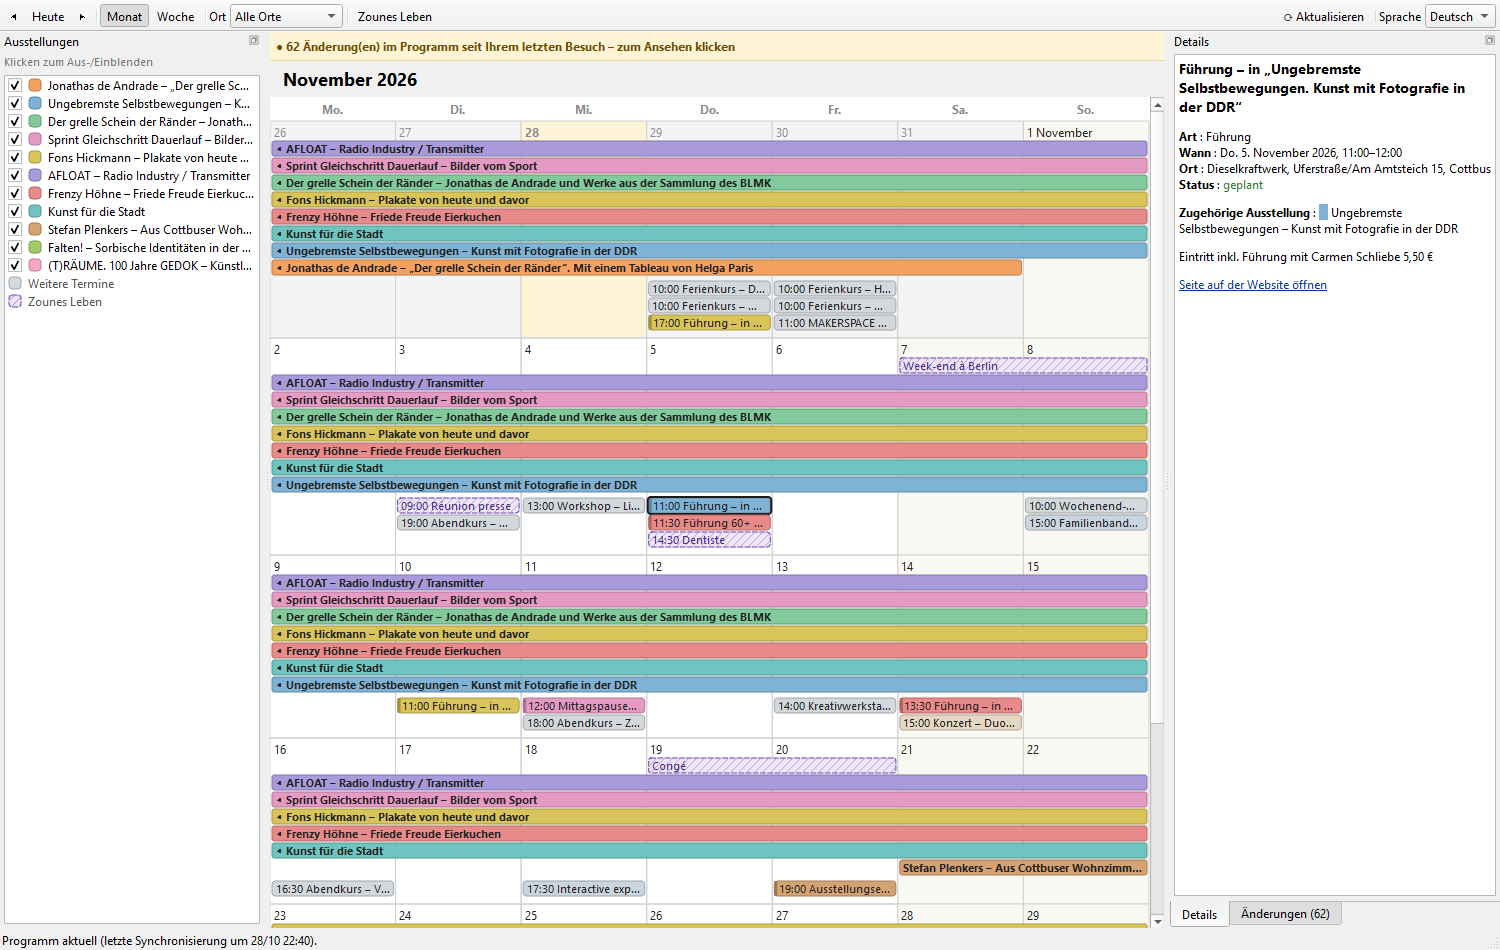
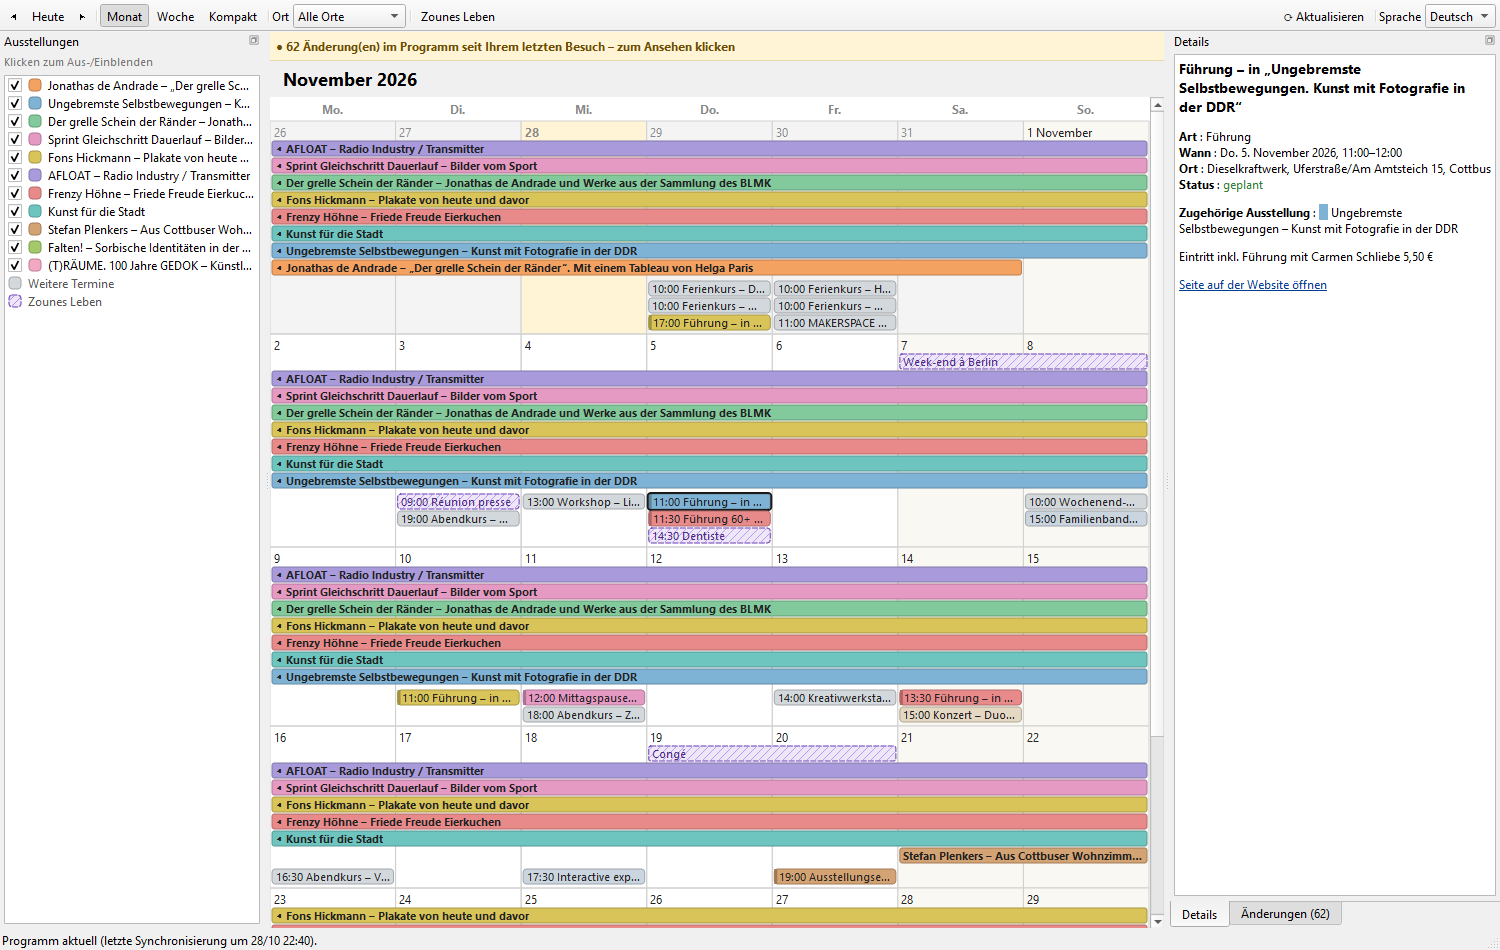
Vue mois : mode compact (bandes d'exposition fines, mois sans défilement)
Bouton « Compact » mémorisé ; expositions en bandes de 4 px avec nom au
survol, vie perso inchangée, pastilles en surplus regroupées en « +n autres ».

Changed region(s): [[0.1533, 0.3358, 0.7667, 0.9768], [0.1227, 0.0, 0.3373, 0.0305]]

diff --git a/musee_zoune/app/vue_mois.py b/musee_zoune/app/vue_mois.py
@@ -19,6 +19,25 @@ H_BANDE = 17
 H_PASTILLE = 17
 MAX_PASTILLES = 7
 H_MIN_SEMAINE = 96
+H_FINE = 5          # mode compact : bande d'exposition de 4 px + 1 px d'espace
+H_MIN_COMPACT = 60
+
+
+def disposition_semaine(n_perso: int, n_expos: int, n_ponctuels_max: int, compact: bool,
+                        h_cible: float | None = None) -> tuple[float, int]:
+    """Hauteur d'une semaine et nombre de lignes de pastilles disponibles.
+
+    Mode normal : la semaine grandit pour tout montrer (jusqu'à MAX_PASTILLES).
+    Mode compact : expositions en bandes fines et hauteur imposée (`h_cible`) pour que
+    tout le mois tienne à l'écran ; ce qui ne rentre pas devient « +n autres ».
+    """
+    h_expo = H_FINE if compact else H_BANDE
+    base = H_NUMERO + n_perso * H_BANDE + n_expos * h_expo + 6
+    if compact and h_cible:
+        hauteur = max(h_cible, H_MIN_COMPACT, base + H_PASTILLE)
+        return hauteur, max(1, int((hauteur - base) // H_PASTILLE))
+    lignes = min(n_ponctuels_max, MAX_PASTILLES + 1)
+    return max(H_MIN_SEMAINE, base + lignes * H_PASTILLE), MAX_PASTILLES + 1
 
 
 def bandes_empilees(elements: list[Element], lundi: date) -> list[cal.Bande]:
@@ -43,10 +62,23 @@ class VueMois(QWidget):
         self.donnees = donnees
         self.annee, self.mois = date.today().year, date.today().month
         self.selection: str | None = None
+        self.compact = False
+        self._h_cible: float | None = None
         self._zones: list[tuple[QRectF, object]] = []
         self.setMouseTracking(True)
         self.setSizePolicy(QSizePolicy.Expanding, QSizePolicy.Fixed)
         self.recalculer()
+
+    def basculer_compact(self, compact: bool) -> None:
+        self.compact = compact
+        self.recalculer()
+
+    def _hauteur_cible(self) -> float | None:
+        """Hauteur d'une semaine pour que le mois remplisse la zone visible."""
+        zone = self.parentWidget()
+        if not self.compact or zone is None or not self.lundis:
+            return None
+        return float(int((zone.height() - H_ENTETE - 4) / len(self.lundis)))
 
     # ------------------------------------------------------------------
 
@@ -59,6 +91,7 @@ class VueMois(QWidget):
         debut, fin = self.lundis[0], self.lundis[-1] + timedelta(days=6)
         self.elements = self.donnees.elements(debut, fin)
         self.semaines = []
+        self._h_cible = self._hauteur_cible()
         for lundi in self.lundis:
             bandes_el = [e for e in self.elements if e.journee and e.dernier_jour >= lundi
                          and e.premier_jour <= lundi + timedelta(days=6)]
@@ -73,10 +106,20 @@ class VueMois(QWidget):
                      and e.premier_jour <= jour <= e.dernier_jour),
                     key=lambda e: (e.debut.time(), e.titre))
                 jours.append(ponctuels)
-            max_p = min(max((len(j) for j in jours), default=0), MAX_PASTILLES + 1)
-            hauteur = max(H_MIN_SEMAINE, H_NUMERO + n_pistes * H_BANDE + 4 + max_p * H_PASTILLE + 6)
+            n_perso = max((b.piste + 1 for b in bandes if par_cle[b.cle].nature == "perso"), default=0)
+            n_expos = n_pistes - n_perso
+            hauteur, lignes = disposition_semaine(
+                n_perso, n_expos, max((len(j) for j in jours), default=0), self.compact, self._h_cible)
+            h_expo = H_FINE if self.compact else H_BANDE
+            for b in bandes:  # position verticale de chaque bande dans la semaine
+                if b.piste < n_perso:
+                    b.y, b.h = b.piste * H_BANDE, H_BANDE - 2
+                else:
+                    b.y = n_perso * H_BANDE + (b.piste - n_perso) * h_expo
+                    b.h = h_expo - (1 if self.compact else 2)
             self.semaines.append({"lundi": lundi, "bandes": bandes, "par_cle": par_cle,
-                                  "n_pistes": n_pistes, "jours": jours, "hauteur": hauteur})
+                                  "h_bandes": n_perso * H_BANDE + n_expos * h_expo,
+                                  "jours": jours, "hauteur": hauteur, "lignes": lignes})
         self.setMinimumHeight(H_ENTETE + sum(s["hauteur"] for s in self.semaines) + 2)
         self.update()
 
@@ -124,7 +167,21 @@ class VueMois(QWidget):
                 el: Element = sem["par_cle"][b.cle]
                 x0 = (b.debut - sem["lundi"]).days * lj + 2
                 x1 = ((b.fin - sem["lundi"]).days + 1) * lj - 2
-                r = QRectF(x0, y + H_NUMERO + b.piste * H_BANDE, x1 - x0, H_BANDE - 2)
+                r = QRectF(x0, y + H_NUMERO + b.y, x1 - x0, b.h)
+                fine = self.compact and el.nature != "perso"
+                if fine:
+                    p.save()
+                    p.setPen(Qt.NoPen)
+                    p.setBrush(QColor(el.couleur).darker(108))
+                    p.drawRoundedRect(r, 1.5, 1.5)
+                    if el.cle == self.selection:
+                        p.setPen(QPen(QColor("#1A1A1A"), 1.5))
+                        p.setBrush(Qt.NoBrush)
+                        p.drawRect(r.adjusted(-1, -1, 1, 1))
+                    p.restore()
+                    # zone de clic / survol un peu plus haute que la bande
+                    self._zones.append((r.adjusted(0, -1, 0, 1), el))
+                    continue
                 style.dessiner_fond(p, r, el, 2)
                 titre = ("◂ " if b.coupe_gauche else "") + el.titre
                 style.dessiner_texte(p, r, titre, el, 8, gras=el.nature == "expo")
@@ -132,10 +189,11 @@ class VueMois(QWidget):
                 self._zones.append((r, el))
 
             # pastilles des événements ponctuels
-            y0 = y + H_NUMERO + sem["n_pistes"] * H_BANDE + 4
+            y0 = y + H_NUMERO + sem["h_bandes"] + 4
+            lignes = sem["lignes"]
             for i, ponctuels in enumerate(sem["jours"]):
                 jour = sem["lundi"] + timedelta(days=i)
-                visibles = ponctuels if len(ponctuels) <= MAX_PASTILLES + 1 else ponctuels[:MAX_PASTILLES]
+                visibles = ponctuels if len(ponctuels) <= lignes else ponctuels[:lignes - 1]
                 for k, el in enumerate(visibles):
                     r = QRectF(i * lj + 2, y0 + k * H_PASTILLE, lj - 4, H_PASTILLE - 2)
                     style.dessiner_fond(p, r, el, 3)
@@ -209,4 +267,11 @@ class VueMois(QWidget):
 
     def resizeEvent(self, ev):
         super().resizeEvent(ev)
+        if self.compact and self._hauteur_cible() != self._h_cible:
+            self.recalculer()
         self.update()
+
+    def ajuster_a_la_zone(self) -> None:
+        """Appelé quand la zone visible change de taille (mode compact)."""
+        if self.compact:
+            self.recalculer()

diff --git a/musee_zoune/app/fenetre.py b/musee_zoune/app/fenetre.py
@@ -24,6 +24,16 @@ from .vue_semaine import VueSemaine
 log = logging.getLogger("musee_zoune.app")
 
 
+class ZoneDefilement(QScrollArea):
+    """Zone de défilement qui prévient quand sa taille change (mode compact)."""
+
+    redimensionnee = Signal()
+
+    def resizeEvent(self, ev):
+        super().resizeEvent(ev)
+        self.redimensionnee.emit()
+
+
 class FilSync(QThread):
     """Synchronisation en arrière-plan : l'interface reste utilisable."""
 
@@ -57,11 +67,12 @@ class FenetrePrincipale(QMainWindow):
         self.vue_semaine = VueSemaine(self.donnees)
         self.pile = QStackedWidget()
         for vue in (self.vue_mois, self.vue_semaine):
-            zone = QScrollArea()
+            zone = ZoneDefilement()
             zone.setWidgetResizable(True)
             zone.setWidget(vue)
             zone.setFrameShape(QScrollArea.NoFrame)
             self.pile.addWidget(zone)
+        self.pile.widget(0).redimensionnee.connect(self.vue_mois.ajuster_a_la_zone)
 
         # bandeau des changements non lus
         self.bandeau = QPushButton()
@@ -108,6 +119,7 @@ class FenetrePrincipale(QMainWindow):
         self.changements.evenement_choisi.connect(self._evenement_choisi)
         self.changements.compteur_change.connect(self._compteur)
 
+        self._barre_defilement_mois()
         self.retraduire()
         self.dock_chg.raise_() if self._non_lus() else self.dock_details.raise_()
         self._etat_sync_initial()
@@ -140,6 +152,11 @@ class FenetrePrincipale(QMainWindow):
             barre.addAction(act)
             act.triggered.connect(lambda _=False, i=i: self._changer_vue(i))
         self.act_mois.setChecked(True)
+        self.act_compact = QAction(self, checkable=True)
+        self.act_compact.setChecked(db.lire_reglage(self.conn, "mois_compact", "0") == "1")
+        self.vue_mois.compact = self.act_compact.isChecked()
+        self.act_compact.toggled.connect(self._compact)
+        barre.addAction(self.act_compact)
         barre.addSeparator()
         self.lbl_ville = QLabel()
         self.combo_ville = QComboBox()
@@ -169,6 +186,8 @@ class FenetrePrincipale(QMainWindow):
         self.act_auj.setText(t("nav_aujourdhui"))
         self.act_mois.setText(t("vue_mois"))
         self.act_semaine.setText(t("vue_semaine"))
+        self.act_compact.setText(t("vue_compact"))
+        self.act_compact.setToolTip(t("vue_compact_aide"))
         self.act_perso.setText(t("perso_gerer"))
         self.act_actualiser.setText("⟳ " + t("sync_bouton_actualiser"))
         self.lbl_ville.setText(t("filtre_ville") + " ")
@@ -235,6 +254,17 @@ class FenetrePrincipale(QMainWindow):
             self.vue_mois.afficher_mois(self.jour.year, self.jour.month)
             self.titre_periode.setText(f"{nom_mois(self.jour.month).capitalize()} {self.jour.year}")
             self.legende.remplir(self.vue_mois.lundis[0], self.vue_mois.lundis[-1] + timedelta(days=6))
+
+    def _barre_defilement_mois(self) -> None:
+        politique = Qt.ScrollBarAlwaysOff if self.vue_mois.compact else Qt.ScrollBarAsNeeded
+        self.pile.widget(0).setVerticalScrollBarPolicy(politique)
+
+    def _compact(self, actif: bool) -> None:
+        db.ecrire_reglage(self.conn, "mois_compact", "1" if actif else "0")
+        self.vue_mois.basculer_compact(actif)
+        self._barre_defilement_mois()
+        if self.vue_semaine_active():
+            self._changer_vue(0)
 
     def _ville(self) -> None:
         self.donnees.ville = self.combo_ville.currentData()

diff --git a/tests/test_calendrier.py b/tests/test_calendrier.py
@@ -118,3 +118,28 @@ def test_semaines_du_mois():
 def test_fin_a_minuit_compte_la_veille():
     assert cal.jours_de({"start": "2026-11-01T10:00", "end": "2026-11-03T00:00"}) == (
         date(2026, 11, 1), date(2026, 11, 2))
+
+
+# --- Mode compact de la vue mois ------------------------------------------------
+
+def test_compact_huit_expos_le_mois_tient_a_l_ecran():
+    from musee_zoune.app.vue_mois import disposition_semaine
+    zone, semaines = 780, 6
+    h_cible = (zone - 26) / semaines
+    hauteur, lignes = disposition_semaine(0, 8, 5, compact=True, h_cible=h_cible)
+    assert hauteur * semaines <= zone - 24
+    assert lignes >= 3  # au moins 3 lignes de pastilles (ou 2 + « +n autres »)
+
+
+def test_normal_les_bandes_prennent_de_la_place():
+    from musee_zoune.app.vue_mois import H_BANDE, disposition_semaine
+    hauteur, _ = disposition_semaine(0, 8, 5, compact=False)
+    assert hauteur > 8 * H_BANDE
+
+
+def test_compact_vie_perso_garde_sa_hauteur():
+    from musee_zoune.app.vue_mois import H_BANDE, H_FINE, disposition_semaine
+    h1, l1 = disposition_semaine(1, 8, 9, compact=True, h_cible=200)
+    h0, l0 = disposition_semaine(0, 8, 9, compact=True, h_cible=200)
+    assert h1 == h0 == 200 and l1 <= l0
+    assert H_FINE < H_BANDE

diff --git a/musee_zoune/textes.py b/musee_zoune/textes.py
@@ -67,6 +67,8 @@ TEXTES = {
         "app_titre": "Musée Zoune — programmation BLMK",
         "vue_mois": "Mois",
         "vue_semaine": "Semaine",
+        "vue_compact": "Compact",
+        "vue_compact_aide": "Vue mois compacte : expositions en bandes fines (nom au survol), le mois tient à l'écran",
         "nav_precedent": "◀",
         "nav_suivant": "▶",
         "nav_aujourdhui": "Aujourd'hui",
@@ -184,6 +186,8 @@ TEXTES = {
         "app_titre": "Musée Zoune – Programm BLMK",
         "vue_mois": "Monat",
         "vue_semaine": "Woche",
+        "vue_compact": "Kompakt",
+        "vue_compact_aide": "Kompakte Monatsansicht: Ausstellungen als schmale Balken (Name beim Überfahren), der Monat passt auf den Bildschirm",
         "nav_precedent": "◀",
         "nav_suivant": "▶",
         "nav_aujourdhui": "Heute",

diff --git a/outils/captures.py b/outils/captures.py
@@ -68,6 +68,11 @@ def main() -> None:
         capturer(fenetre, sortie / f"vue_semaine_{langue}.png")
 
         if langue == "fr":
+            fenetre.act_compact.setChecked(True)
+            fenetre.aller_a(date(2026, 11, 2), vue=0)
+            capturer(fenetre, sortie / "vue_mois_compact_fr.png")
+            fenetre.act_compact.setChecked(False)
+            fenetre.aller_a(date(2026, 11, 2), vue=1)
             fenetre.dock_chg.raise_()
             capturer(fenetre, sortie / "changements_fr.png")
             fenetre.aller_a(date(2026, 12, 1), vue=0)

diff --git a/musee_zoune/calendrier.py b/musee_zoune/calendrier.py
@@ -172,6 +172,8 @@ class Bande:
     piste: int = 0
     coupe_gauche: bool = False  # commence avant la semaine
     coupe_droite: bool = False  # continue après
+    y: float = 0                # position verticale (calculée par la vue)
+    h: float = 0
 
 
 def bandes_semaine(elements: list[tuple[str, date, date]], lundi: date) -> list[Bande]:

diff --git a/README.md b/README.md
@@ -24,6 +24,7 @@ Double-cliquer sur `lancer.bat` (crée l'environnement Python au premier lanceme
 Ou : `.venv\Scripts\python -m musee_zoune.app`.
 
 - Vue **Mois** : expositions en bandes colorées sur leur période, autres événements en pastilles.
+  Bouton « Compact » (mémorisé) : bandes fines sans texte (nom au survol), le mois tient à l'écran.
   Les visites et vernissages prennent la couleur de leur exposition.
 - Vue **Semaine** : créneaux horaires, titre complet, lieu, type ; clic = détails.
 - **Vie de Zoune** : vacances, week-ends, rendez-vous (hachurés violets). Double-clic sur un jour
